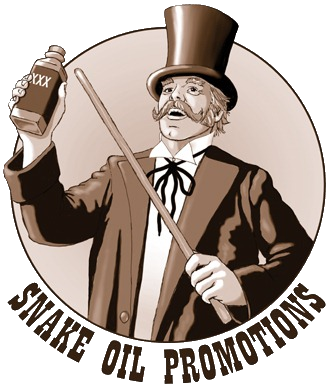
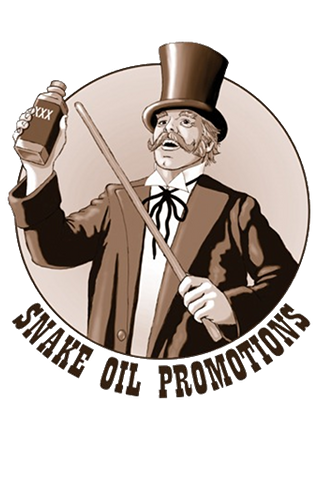
modified default image to look better, added shells for news feed and twitter feed views

diff --git a/src/UI/Controllers/TwitterItemsViewController.cs b/src/UI/Controllers/TwitterItemsViewController.cs
@@ -1,0 +1,24 @@
+using System;
+using System.Collections.Generic;
+using System.Drawing;
+using System.Net;
+using System.IO;
+using System.Text;
+using MonoTouch.Foundation;
+using MonoTouch.UIKit;
+
+namespace UI
+{
+	public class TwitterItemsViewController : UITableViewController
+	{
+		public TwitterItemsViewController(UITableViewStyle style) : base(style) {}
+				
+        public override void ViewDidLoad ()
+        {
+            base.ViewDidLoad ();
+			
+			Title = "Russell Tweets";
+        }
+	}
+}
+

diff --git a/src/UI/Controllers/NewsItemsViewController.cs b/src/UI/Controllers/NewsItemsViewController.cs
@@ -1,0 +1,24 @@
+using System;
+using System.Collections.Generic;
+using System.Drawing;
+using System.Net;
+using System.IO;
+using System.Text;
+using MonoTouch.Foundation;
+using MonoTouch.UIKit;
+
+namespace UI
+{
+	public class NewsItemsViewController : UITableViewController
+	{
+		public NewsItemsViewController(UITableViewStyle style) : base(style) {}
+				
+        public override void ViewDidLoad ()
+        {
+            base.ViewDidLoad ();
+			
+			Title = "Russell News";
+        }	
+	}
+}
+

diff --git a/src/UI/Controllers/MainMenuViewController.cs b/src/UI/Controllers/MainMenuViewController.cs
@@ -103,10 +103,10 @@ namespace UI
 					switch (indexPath.Row)
 					{
 					case 0:
-						//nextController = new BlogItemsViewController(UITableViewStyle.Plain);
+						nextController = new NewsItemsViewController(UITableViewStyle.Plain);
 						break;
 					case 1:
-						//nextController = new NewsItemsViewController(UITableViewStyle.Plain);
+						nextController = new TwitterItemsViewController(UITableViewStyle.Plain);
 						break;
 					default:
 						break;
